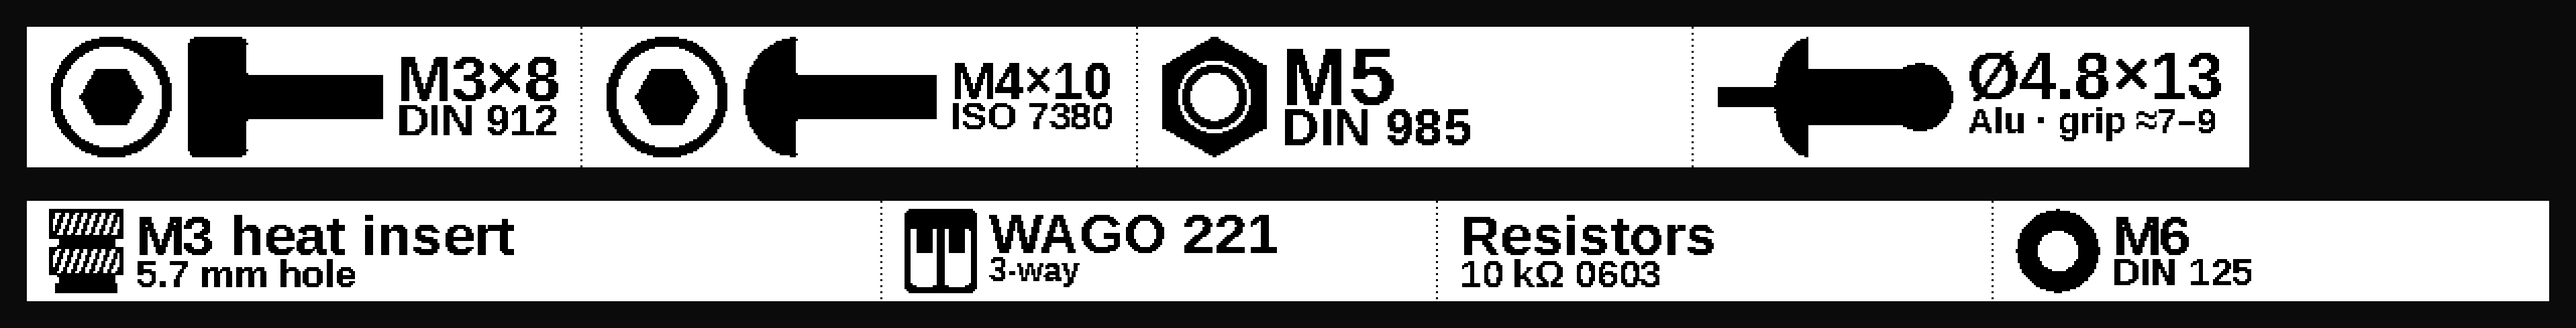
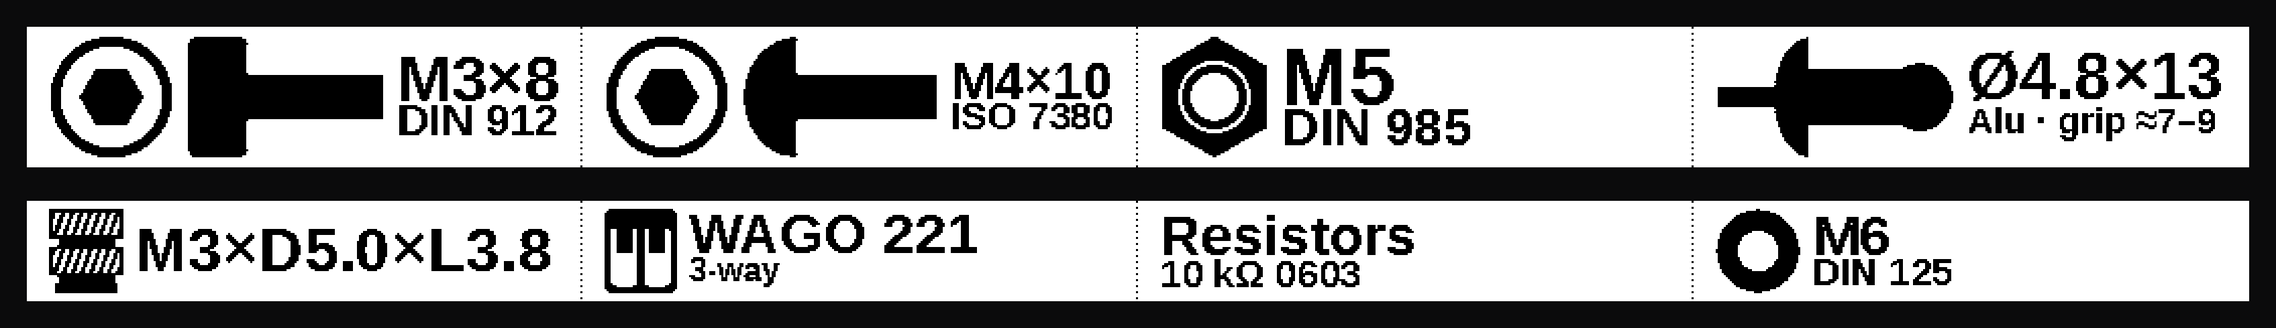
Docs: sample strip shows the heat insert as M3×D5.0×L3.8
The 9 mm strip had a hand-typed "M3 heat insert / 5.7 mm hole" label,
where 5.7 mm is the insert's length, not the hole. Re-rendered through
the preview with the insert label teip now writes; the other three
labels come out pixel-identical to the old image.

diff --git a/README.md b/README.md
@@ -39,7 +39,7 @@ type the size, and print:
 - **Runs where you want.** Straight from Chrome or Edge with the printer plugged into your
   computer, or on a Raspberry Pi next to the printer so any phone on the network can print.
 
-<p align="center"><img src="docs/img/labels.png" width="900" alt="Label strips: M3×8 DIN 912, M4×10 ISO 7380, M5 nyloc, rivet Ø4.8×13 on 12 mm tape; heat insert, WAGO 221, resistors 10 kΩ, M6 washer on 9 mm tape"></p>
+<p align="center"><img src="docs/img/labels.png" width="900" alt="Label strips: M3×8 DIN 912, M4×10 ISO 7380, M5 nyloc, rivet Ø4.8×13 on 12 mm tape; heat insert M3×D5.0×L3.8, WAGO 221, resistors 10 kΩ, M6 washer on 9 mm tape"></p>
 
 > [!WARNING]
 > **Early days, and mostly untested.** teip has printed real labels on one printer, a PT-E560BT
